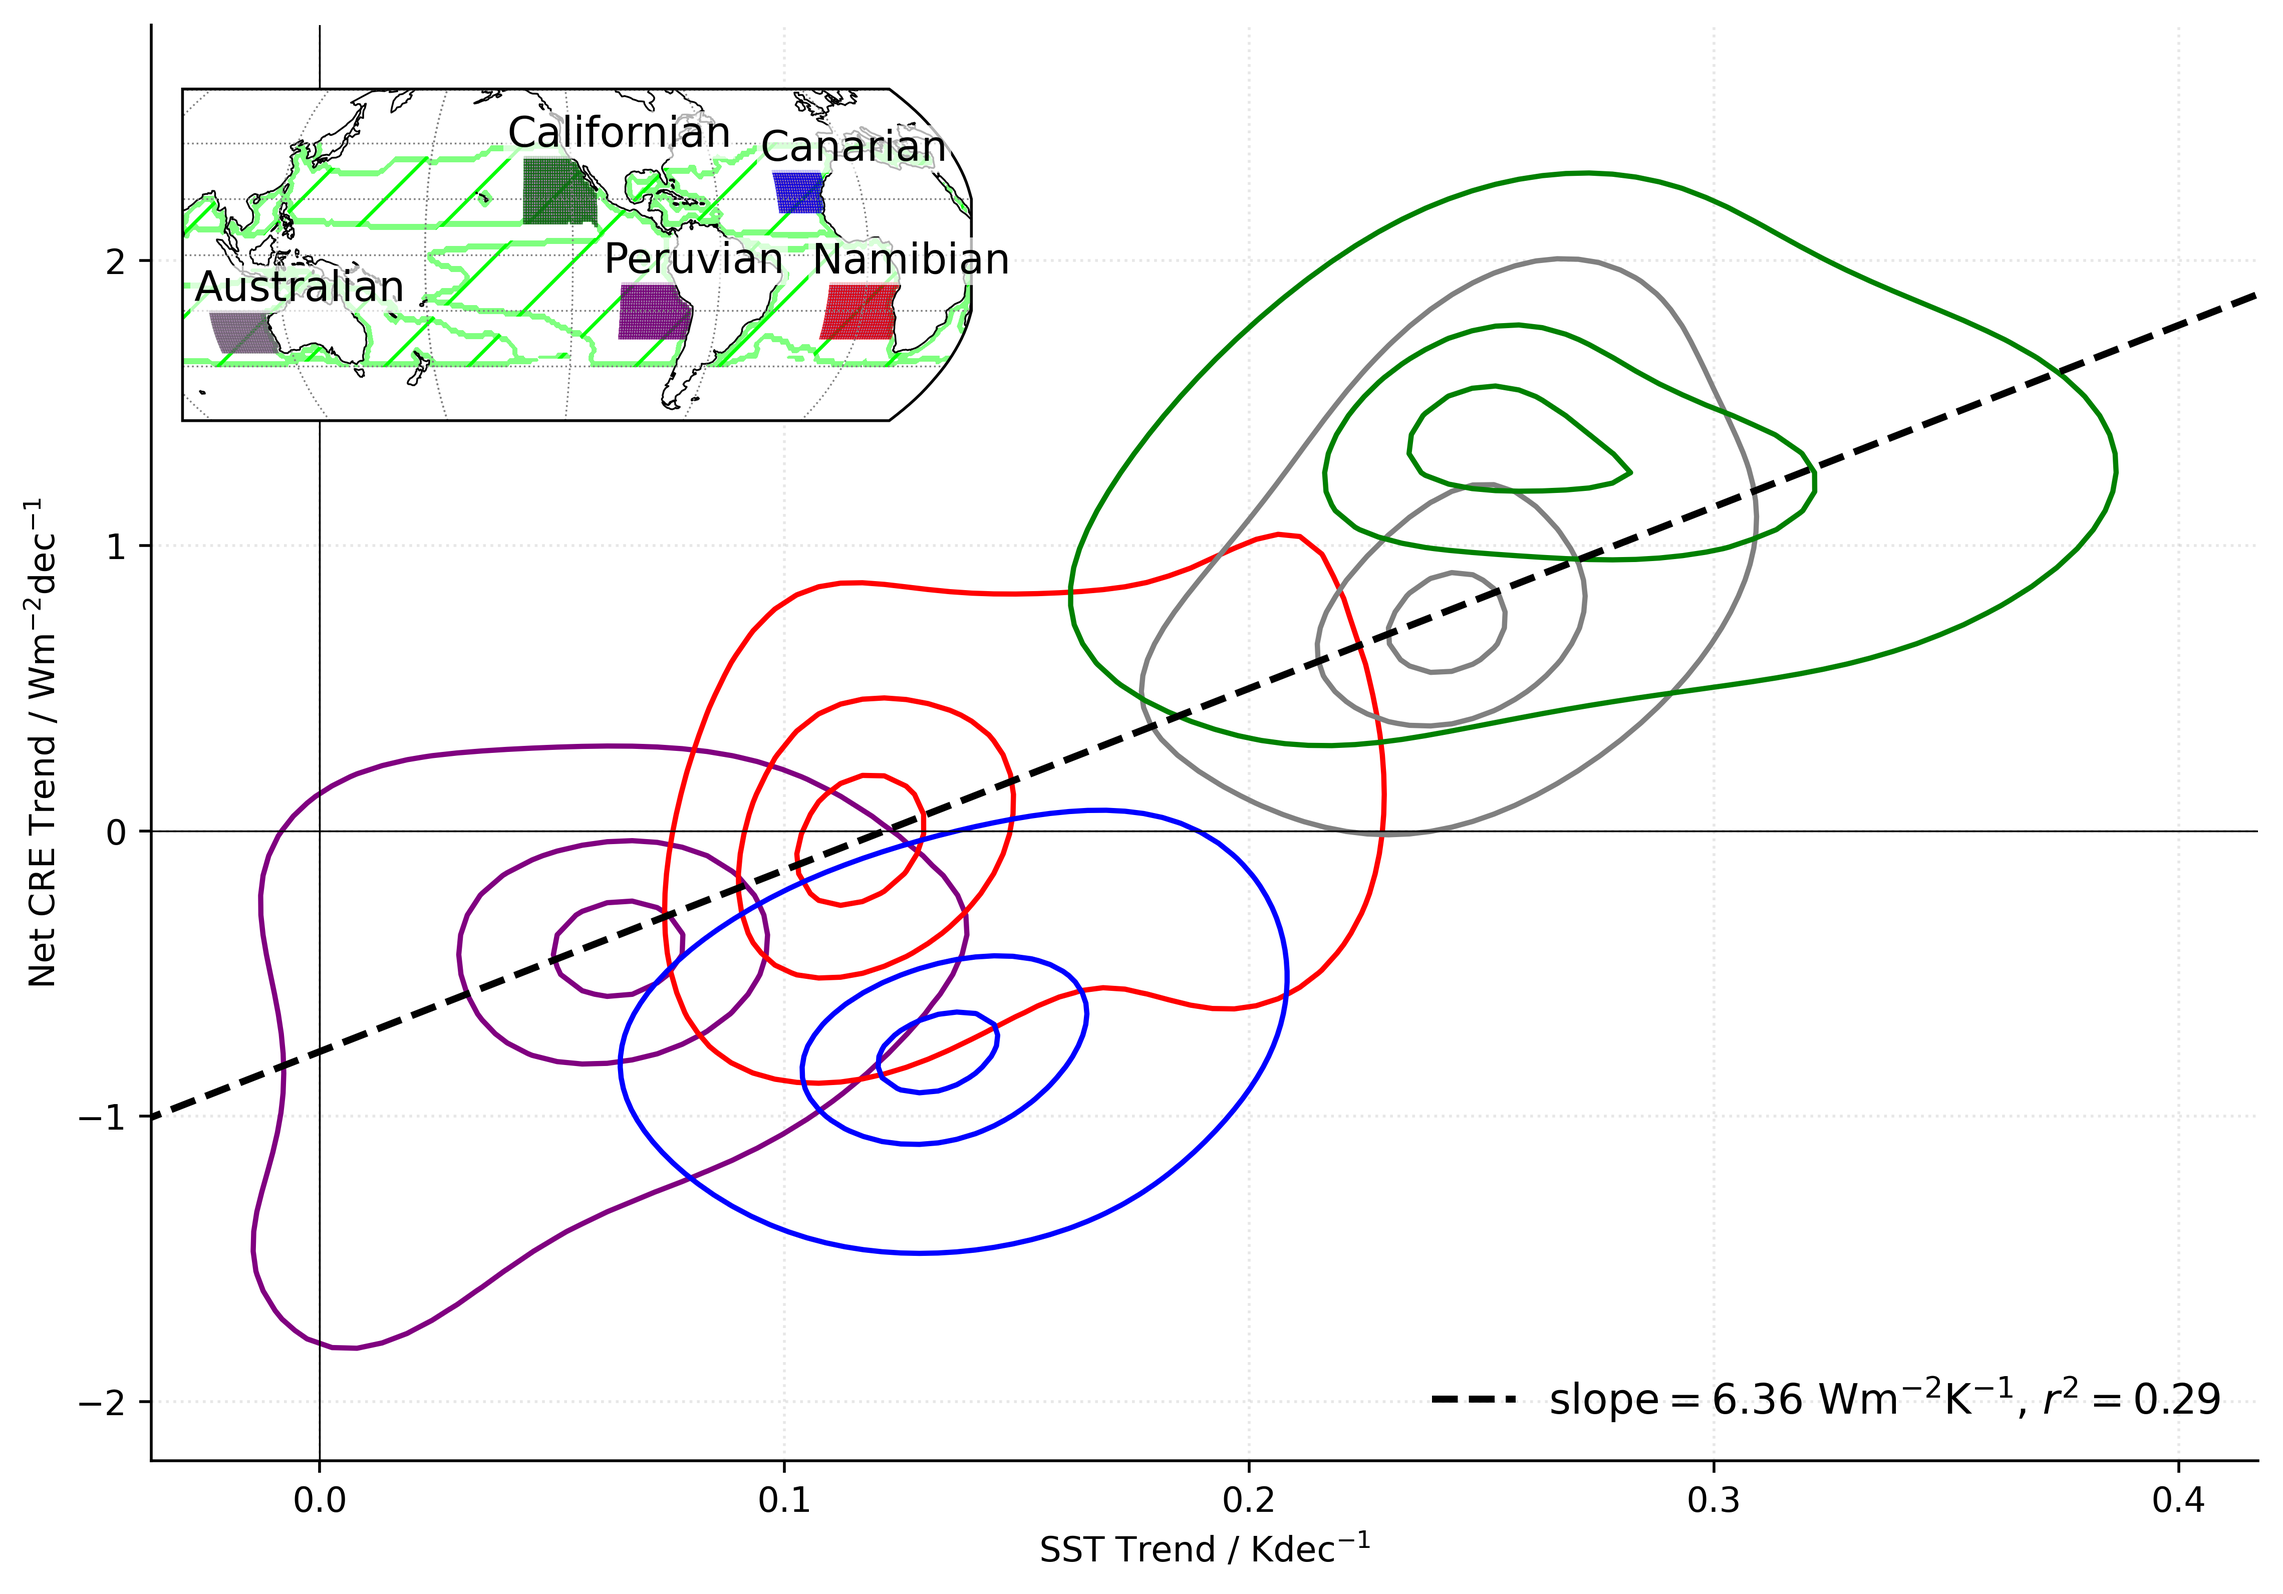
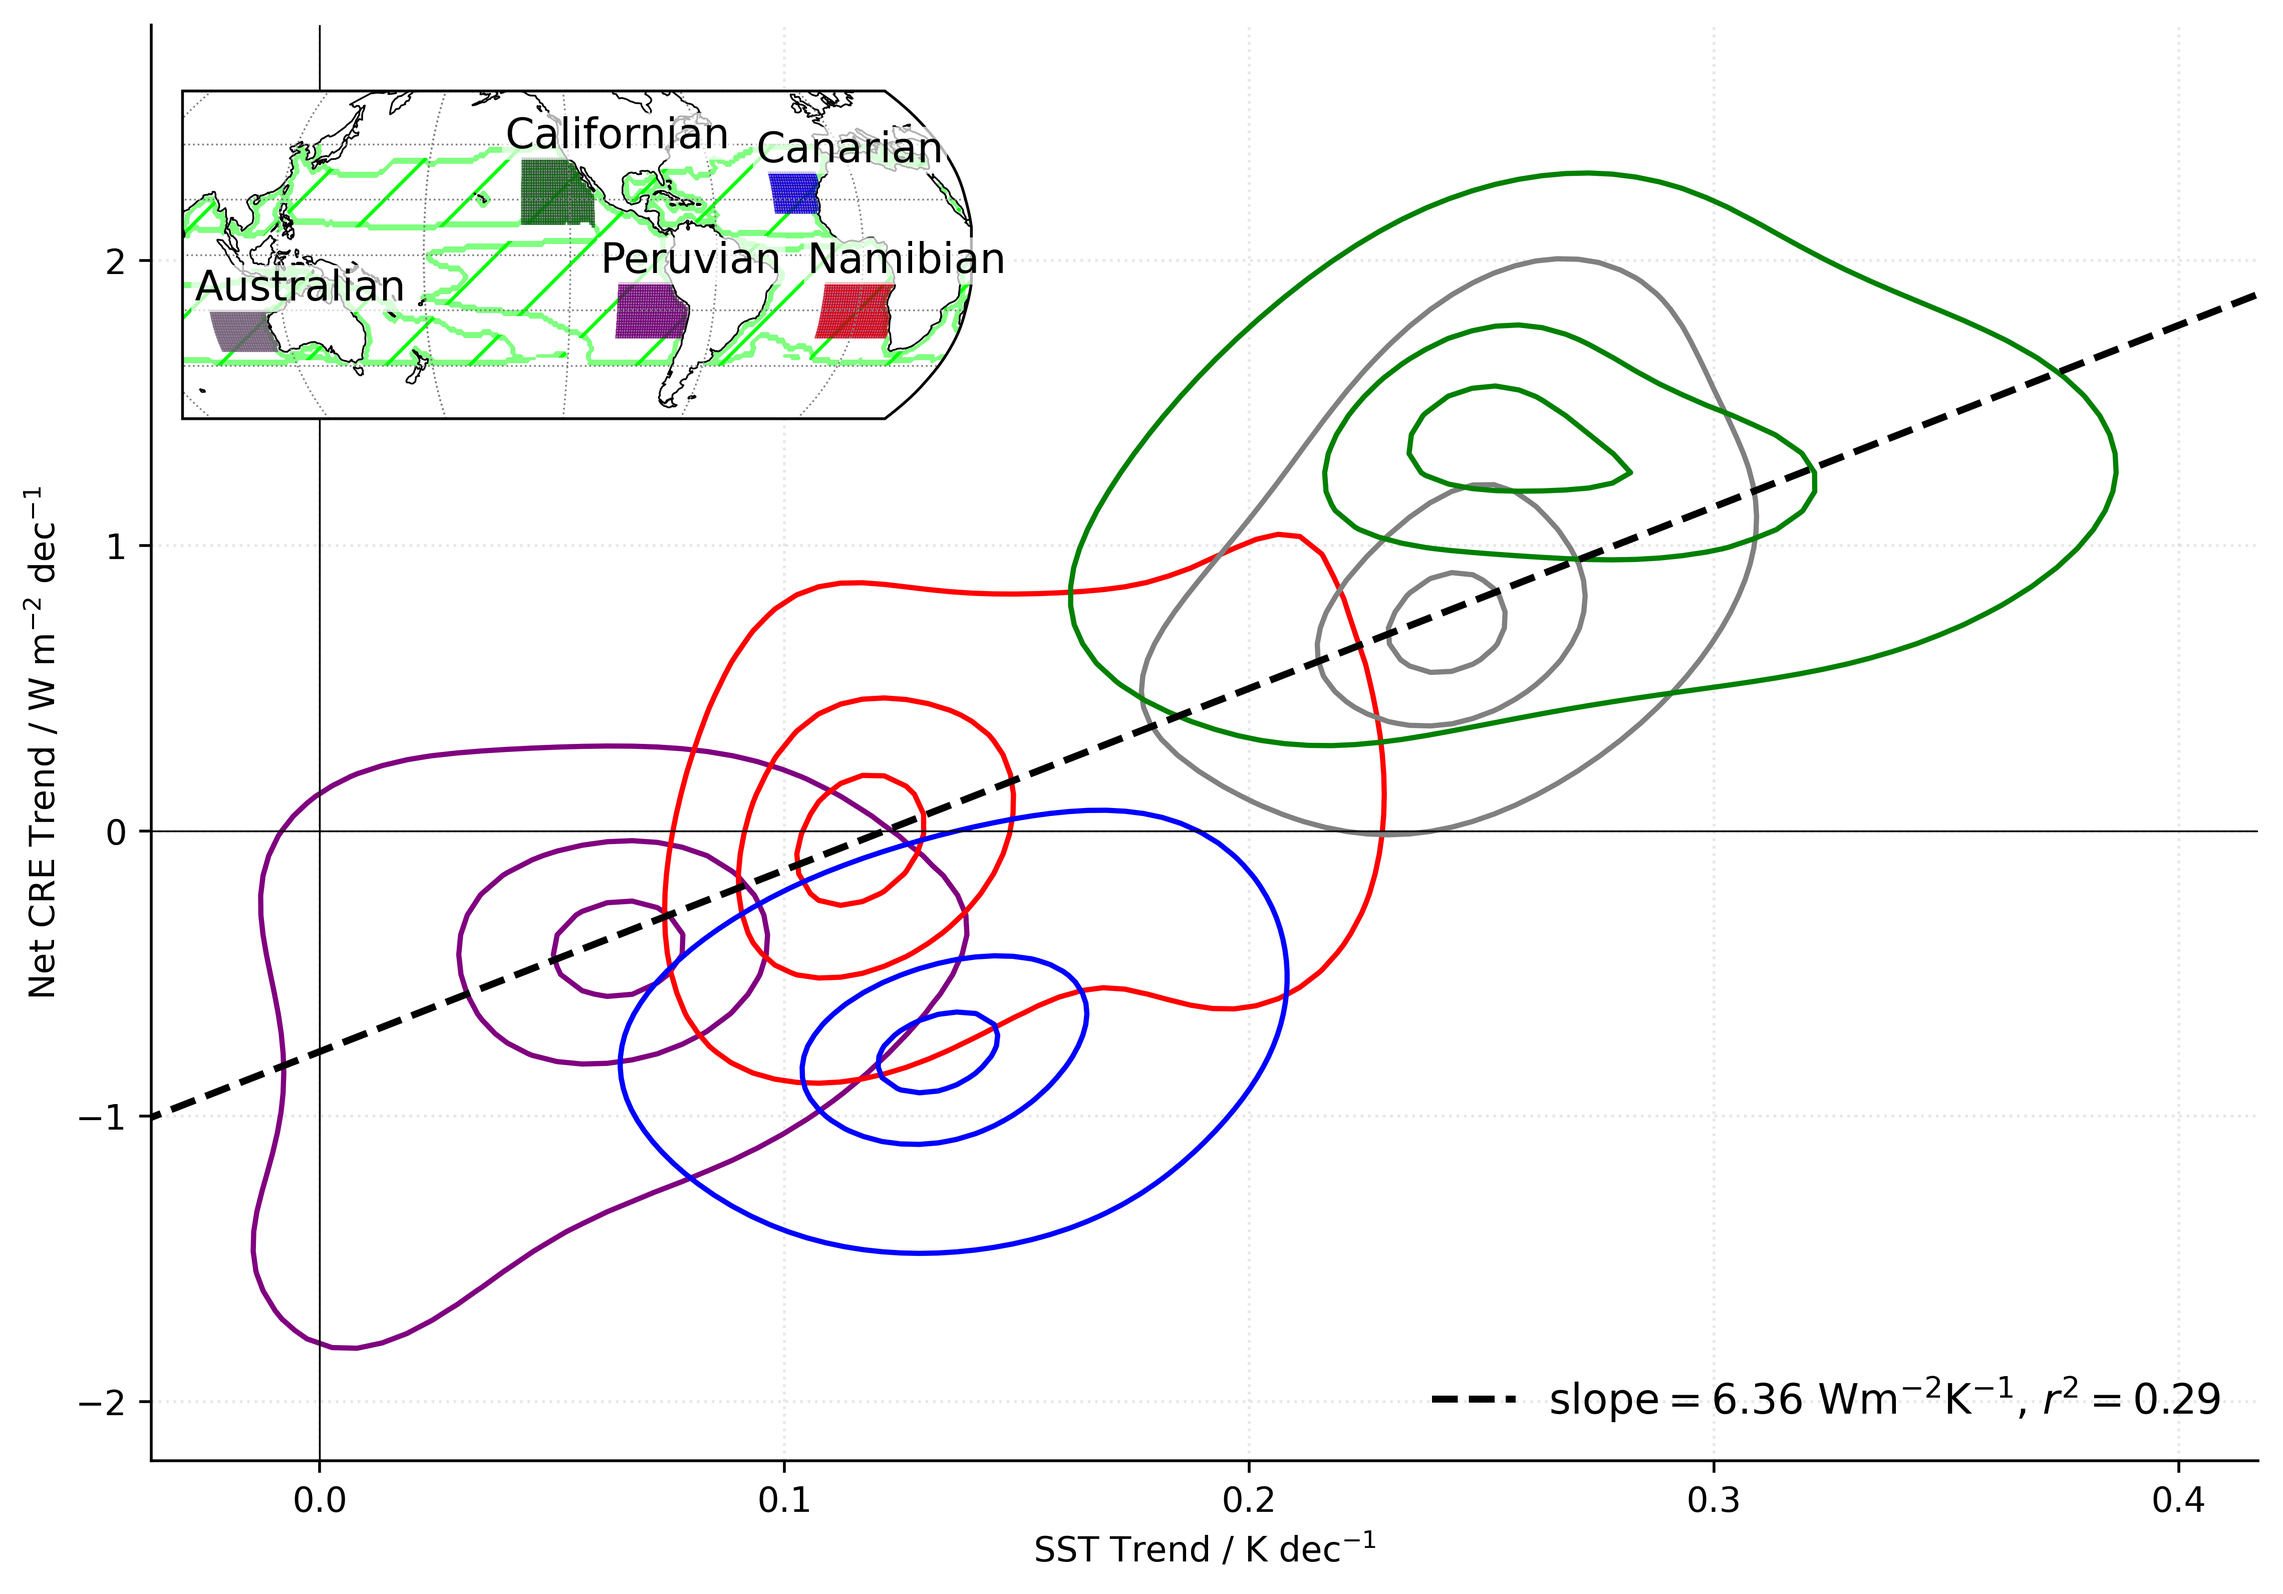
add map inset to barchart

diff --git a/make_figs/barchart.py b/make_figs/barchart.py
@@ -1,8 +1,10 @@
 import numpy as np
 import xarray as xr
 import matplotlib.pyplot as plt
+import cartopy.crs as ccrs
 from matplotlib.patches import Patch
 from utils.plotting import colors, hatches, hatches_legend
+from utils.plotting import central_lon, plot_coasts_grid, edge_band
 
 def do_barchart(regime_trend_file="pp/regime_mean_trends.nc", PLOT_VAR="net", extra_fname="", out_subdir=""):
     ds = xr.open_dataset(regime_trend_file)
@@ -18,9 +20,14 @@ def do_barchart(regime_trend_file="pp/regime_mean_trends.nc", PLOT_VAR="net", ex
     x = np.arange(len(seasons))
     width = 0.5
     label_offset = 0.3
-    light_alpha = 0.5
+    light_alpha = 0.3
 
     fig, ax = plt.subplots(figsize=(8,4))
+
+    map_ax = fig.add_axes(
+        [0.93, 0.06, 0.25, 0.25],  # [left, bottom, width, height]
+        projection=ccrs.Robinson(central_longitude=central_lon)
+    )
 
     bottom_pos = np.zeros(len(seasons))
     bottom_neg = np.zeros(len(seasons))
@@ -107,10 +114,10 @@ def do_barchart(regime_trend_file="pp/regime_mean_trends.nc", PLOT_VAR="net", ex
     ax.legend(
         legend_handles,
         legend_labels,
-        handleheight=1.5,
+        handleheight=1.3,
         title="Regime (area)",
         alignment="left",
-        bbox_to_anchor=(1.02, 1.0),
+        bbox_to_anchor=(1.02, 1.02),
         loc="upper left",
         frameon=False
     )
@@ -133,9 +140,7 @@ def do_barchart(regime_trend_file="pp/regime_mean_trends.nc", PLOT_VAR="net", ex
     else:
         plt.ylabel(f"{PLOT_VAR.upper()} EEI trend / W m$^{{-2}}$ dec$^{{-1}}$")
 
-    plt.savefig(f"figures/{out_subdir}trend_barchart_{PLOT_VAR}{extra_fname}.png",
-                dpi=300, bbox_inches='tight')
-
+    # print numbers
     if PLOT_VAR == "net":
         print(seasons)
         for r in regimes:
@@ -143,6 +148,70 @@ def do_barchart(regime_trend_file="pp/regime_mean_trends.nc", PLOT_VAR="net", ex
             values = ds.sel(regime=r)[PLOT_VAR+"_slope_mean"].values
             ci = ds.sel(regime=r)[PLOT_VAR+"_slope_ci"].values
             print([f"{v:.2f} ± {c:.2f}" for v, c in zip(values, ci)])
+
+    # add map inset
+    ds = xr.open_dataset("pp/regime_masks.nc")
+    ds = ds.drop_vars("area")
+    regimes = [
+        "nh_cryosphere",
+        "sh_cryosphere",
+        "nh_storms",
+        "sh_storms",
+        "tropical_ascent",
+        "subsidence_land",
+        "subsidence_ocean",
+        "residual",
+    ]
+    stacked = xr.concat(
+        [ds[r] for r in regimes],
+        dim=xr.DataArray(regimes, dims="regime", name="regime")
+    )
+    counts = stacked.sum(dim="season")
+    winner_index = counts.argmax(dim="regime")
+    annual_ds = xr.Dataset(
+        {
+            regime: (winner_index == i).astype(int)
+            for i, regime in enumerate(regimes)
+        }
+    )
+    plot_coasts_grid(map_ax)
+
+    for r in regimes:
+        data = annual_ds[r].astype(int)
+        band = edge_band(data, n=2)
+
+        # 1. Colored boundary band
+        map_ax.contourf(
+            data.lon, data.lat, band,
+            levels=[0.5, 1],
+            colors=[colors[r]],
+            transform=ccrs.PlateCarree(),
+        )
+
+        # 2. Filled contours
+        map_ax.contourf(
+            data.lon, data.lat, data,
+            levels=[0.5, 1],
+            colors=[colors[r]],
+            transform=ccrs.PlateCarree(),
+            alpha=light_alpha,
+        )
+
+        # 3. Hatches
+        map_ax.contourf(
+            data.lon, data.lat, data,
+            levels=[0.5, 1],
+            colors='none',
+            hatches=[hatches_legend[r]],
+            transform=ccrs.PlateCarree(),
+        )
+        # trick to color the hatches
+        for collection in map_ax.collections[-1:]:  # last contourf
+            collection.set_edgecolor(colors[r])
+            collection.set_linewidth(0.0)  # remove polygon edges
+
+    plt.savefig(f"figures/{out_subdir}trend_barchart_{PLOT_VAR}{extra_fname}.png",
+                dpi=300, bbox_inches='tight')
 
 for var in ['net', 'sw']:
     do_barchart(PLOT_VAR=var)

diff --git a/make_figs/stcu.py b/make_figs/stcu.py
@@ -70,8 +70,8 @@ map_ax.set_extent([central_lon - 180, central_lon + 180, -60, 60], crs=ccrs.Plat
 
 # - main plot: - 
 
-ax.set_xlabel("SST Trend / Kdec$^{-1}$")
-ax.set_ylabel( "Net CRE Trend / Wm$^{-2}$dec$^{-1}$")
+ax.set_xlabel("SST Trend / K dec$^{-1}$")
+ax.set_ylabel( "Net CRE Trend / W m$^{-2}$ dec$^{-1}$")
 
 # accumulate all pts for all-deck fit
 sst_all_boxes, cre_all_boxes = [], []
